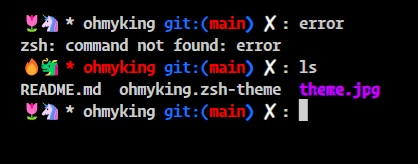
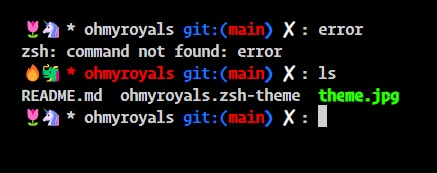
update README and theme picture

Changed region(s): [[0.0311, 0.0915, 0.933, 0.7622]]

diff --git a/README.md b/README.md
@@ -1,12 +1,12 @@
-## ohmyking zsh theme
+## ohmyroyals zsh theme
 
 Single-line prompt without extra information 
 
-![ohmyking](theme.jpg)
+![ohmyroyals](theme.jpg)
 
 ## Installation
 
-For oh-my-zsh users, place into ~/.oh-my-zsh/custom/themes the file ohmyking.zsh-theme and change to ZSH_THEME="ohmyking" in your ~/.zshrc file
+For oh-my-zsh users, place into ~/.oh-my-zsh/custom/themes the file ohmyroyals.zsh-theme and change to ZSH_THEME="ohmyroyals" in your ~/.zshrc file
 
 ## Contact
 
